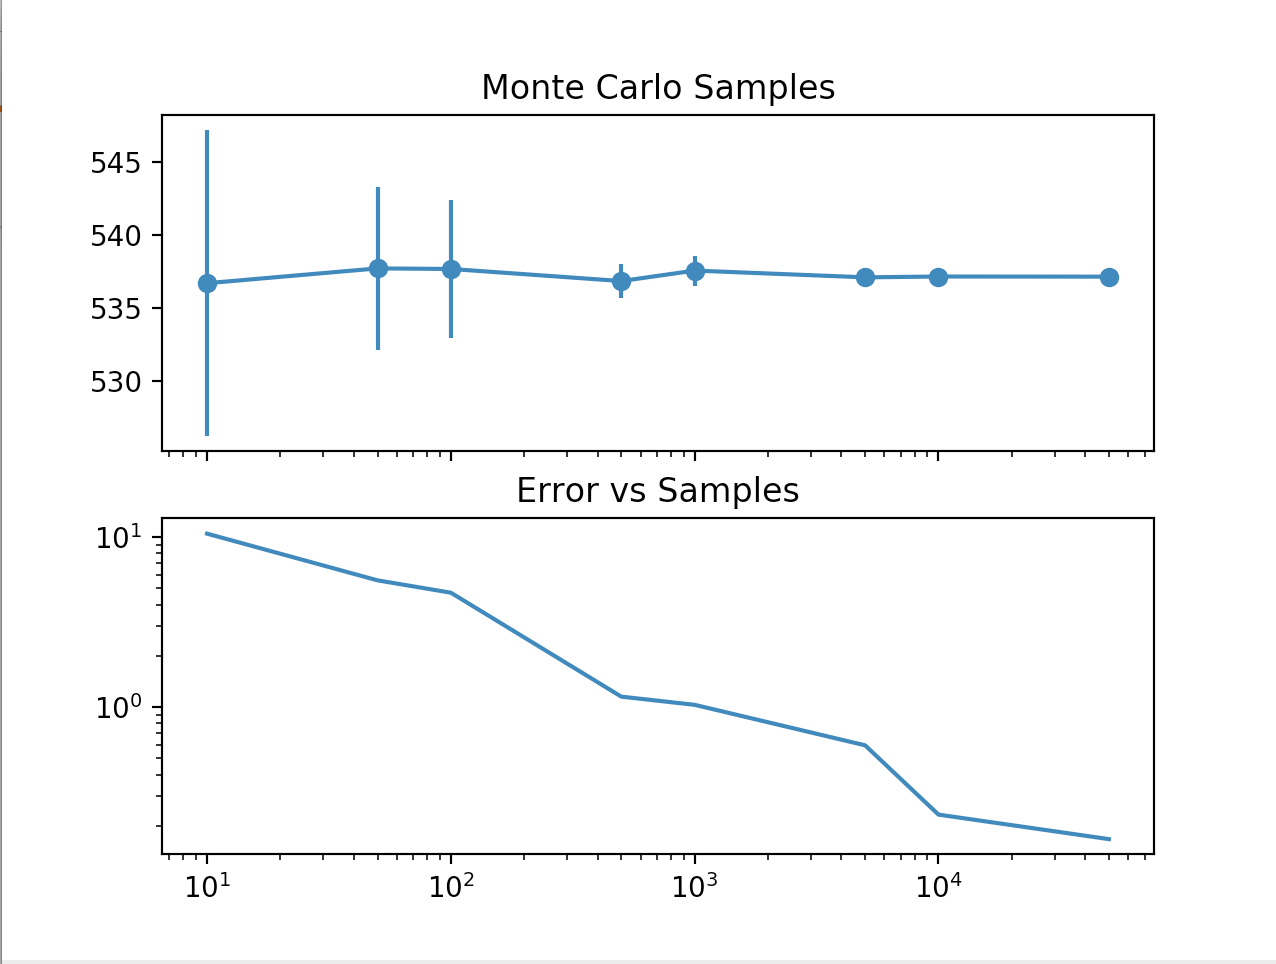
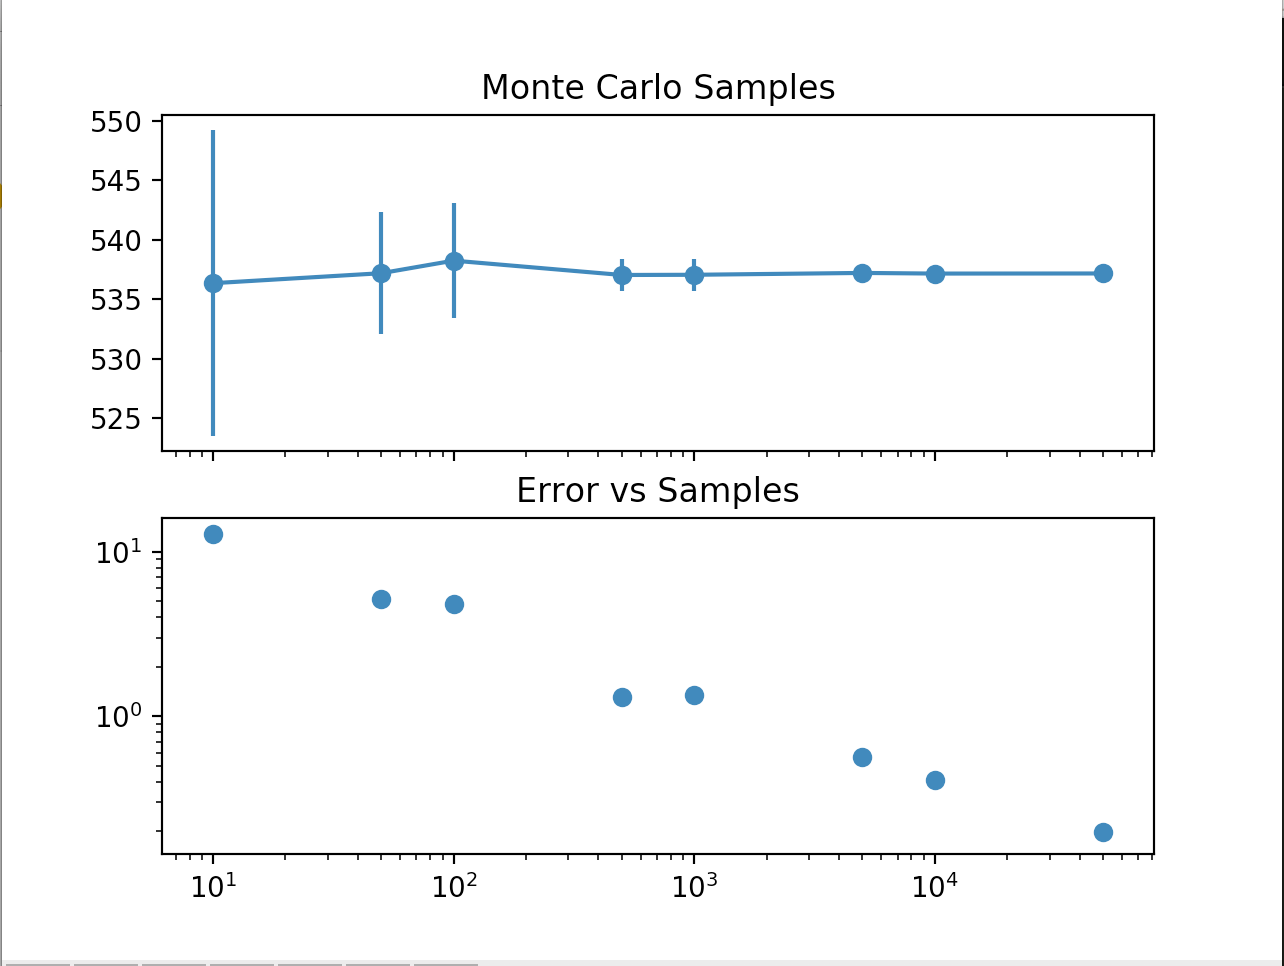
asdf

diff --git a/ex1/lab.py b/ex1/lab.py
@@ -62,7 +62,7 @@ ax0.errorbar(x, y, yerr=yerror, fmt='-o')
 ax0.set_title('Monte Carlo Samples')
 ax0.set_xscale('log')
 
-ax1.plot(x, yerror)
+ax1.scatter(x, yerror)
 ax1.set_title('Error vs Samples')
 ax1.set_yscale('log')
 ax1.set_xscale('log')
